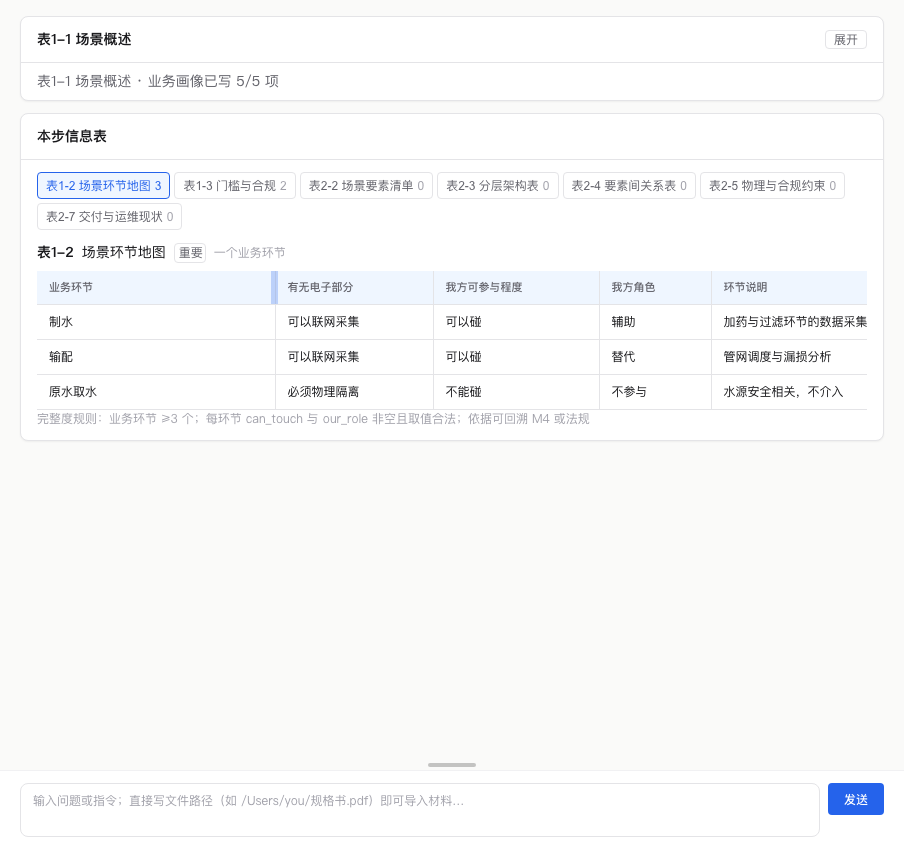
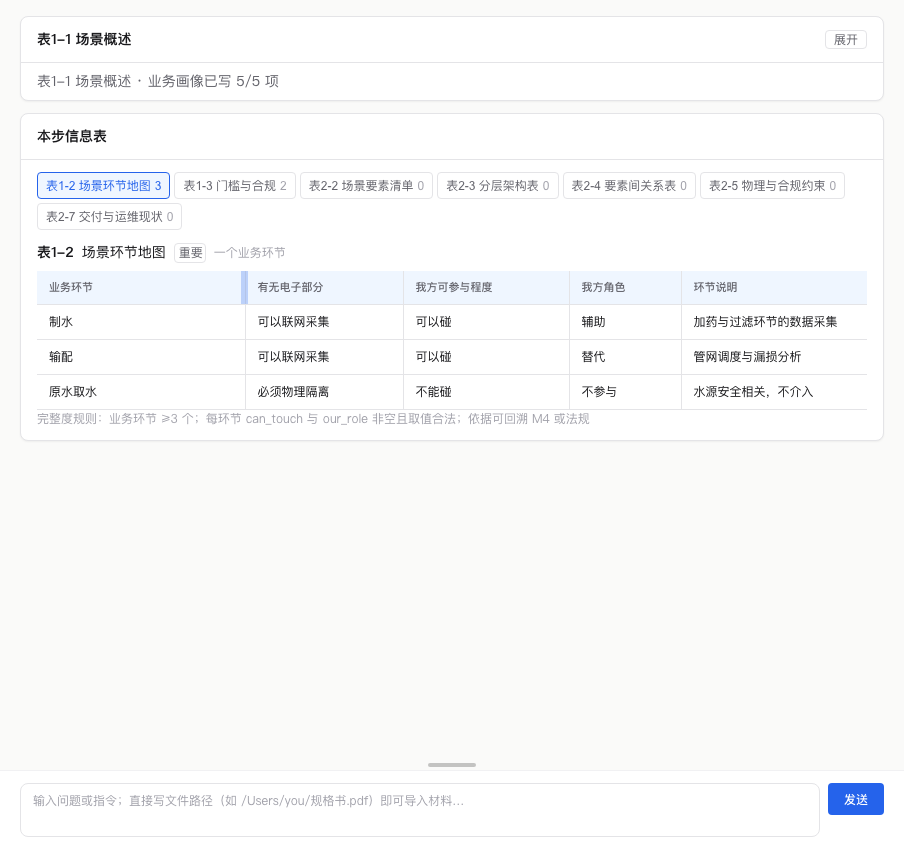
fix(web): 去掉表格隐形填充列，表宽恒等于中栏宽（不再出现横向滚动）
用户验收反馈两条：① 明明只有 2 列有内容，表格却有 3 列；
② 表格的最大宽度是固定的，跟着中栏宽调整即可，不要横向滚动条。

根因是上一版（c49815a）的设计错误：为了让「拖宽一列不压缩别的列」，
我加了一个隐形的填充列承接余量，并按「表宽 = max(中栏宽, 列宽之和)」
允许超出中栏 —— 于是表里凭空多了一个空格子（DOM 里真有第三个 th/td，
把某列拖窄时它还会显形），拖宽到超出中栏就冒出横向滚动条。

改为：
- 删掉填充列，表里只有业务列（表1-1 恰为 2 列 / 每行 2 个格子）。
- 末列不设固定宽，由它承接余量：表宽恒等于中栏宽（width:100% +
  table-layout:fixed），.tw 的横滚降为极端窄容器兜底。
- 拖宽被拖列时末列相应变窄，让到 64px 可读下限即停（拖拽夹取），
  因此拖拽永远拖不出横向滚动条。
- 拖宽手柄只装在「列与列之间」：末列右缘就是表右缘，没有边界可移。
- 中栏被拖窄时，手动列宽按比例收，同样不出横滚。

实测：表1-1 拖「项」分割线 +80 → 543/319 变 623/239，表宽 862 不变、
scrollWidth == clientWidth；拖到极限 798/64 仍不出横滚；第 2 步 5 列表
拖第 1 条线 +70 → 208/158/166/112/186（只有第 1 列变、中间三列不动、
末列 -90）。

验证：pnpm verify:m5 全部通过（790 单测 / 演示 E2E 36 passed / 单端口冒烟 /
流程 UI 真机 / 真实 LLM 链路 / 口径守卫，新增两条守卫：不得再有隐形填充列、
手柄只装在列间）；文档 04 v1.15、变更表 #71、开发计划 M15 修正。

diff --git a/apps/web/src/components/SceneTable.tsx b/apps/web/src/components/SceneTable.tsx
@@ -179,6 +179,11 @@ export function SceneTable<T extends Record<string, unknown>>({
   /** 选中行（右栏详情联动高亮） */
   const [selectedIdx, setSelectedIdx] = useState<number | null>(null);
   const tableRef = useRef<HTMLTableElement>(null);
+  /** RO 回调里读最新列定义/列宽（effect 不随它们重建，避免反复解绑观察器） */
+  const columnsRef = useRef(columns);
+  const widthsRef = useRef(widths);
+  columnsRef.current = columns;
+  widthsRef.current = widths;
   const wrapRef = useRef<HTMLDivElement>(null);
   /** 各列自然宽缓存 */
   const naturalsRef = useRef<NaturalWidth[]>([]);
@@ -189,6 +194,8 @@ export function SceneTable<T extends Record<string, unknown>>({
     key: string;
     startX: number;
     startW: number;
+    /** 被拖列允许的最大宽（末列让到可读下限为止） */
+    maxW: number;
     base: Widths;
   } | null>(null);
 
@@ -237,7 +244,25 @@ export function SceneTable<T extends Record<string, unknown>>({
     if (!wrap) return;
     const sync = () => {
       setContainerW(wrap.clientWidth);
-      if (!manualRef.current) fitToContainer();
+      if (!manualRef.current) {
+        fitToContainer();
+        return;
+      }
+      /* 手动列宽遇到中栏变窄：末列最多让到可读下限，再不够就按比例收（绝不出横滚） */
+      const cols = columnsRef.current;
+      const last = cols[cols.length - 1]?.key;
+      const sumOthers = cols
+        .filter((c) => c.key !== last)
+        .reduce((a, c) => a + (widthsRef.current?.[c.key] ?? 0), 0);
+      const room = wrap.clientWidth - sumOthers;
+      if (room >= MIN_COL_WIDTH) return;
+      const scale = Math.max(0.1, (wrap.clientWidth - MIN_COL_WIDTH) / Math.max(1, sumOthers));
+      const next: Widths = {};
+      for (const c of cols) {
+        const w = widthsRef.current?.[c.key];
+        if (typeof w === "number") next[c.key] = Math.max(FIT_MIN_COL_WIDTH, Math.round(w * scale));
+      }
+      setWidths(next);
     };
     sync();
     const ro = new ResizeObserver(sync);
@@ -289,14 +314,20 @@ export function SceneTable<T extends Record<string, unknown>>({
       e.preventDefault();
       const base = { ...(widths ?? {}) };
       const startW = base[key] ?? FALLBACK_COL_WIDTH;
-      dragRef.current = { key, startX: e.clientX, startW, base };
+      /* 末列不设固定宽（承接余量）：它能让出的最多是"降到可读下限"那点，
+         所以被拖列的加宽上限 = 自身宽 + 末列余量。表宽因此恒等于中栏宽，不出横滚。 */
+      const lastTh = tableRef.current?.querySelector("th:last-child");
+      const lastW = lastTh ? lastTh.getBoundingClientRect().width : 0;
+      const maxW = startW + Math.max(0, lastW - MIN_COL_WIDTH);
+      dragRef.current = { key, startX: e.clientX, startW, maxW, base };
       setIsResizing(true);
       manualRef.current = true;
 
       const onMove = (ev: MouseEvent) => {
         const drag = dragRef.current;
         if (!drag) return;
-        const next = Math.max(MIN_COL_WIDTH, Math.round(drag.startW + (ev.clientX - drag.startX)));
+        const raw = Math.round(drag.startW + (ev.clientX - drag.startX));
+        const next = Math.min(Math.max(raw, MIN_COL_WIDTH), Math.round(drag.maxW));
         setWidths({ ...drag.base, [drag.key]: next });
       };
       const onUp = () => {
@@ -323,15 +354,13 @@ export function SceneTable<T extends Record<string, unknown>>({
     }
   }, [storageKey]);
 
-  const sum = columns.reduce((a, c) => a + (widths?.[c.key] ?? 0), 0);
-  /** 表宽 = 中栏内容宽与各列宽之和的较大者（超出则横向滚动） */
-  const tableW = Math.max(sum, containerW);
-  const fillW = Math.max(0, tableW - sum);
+  /** 末列宽不写死：它承接各列宽之和与中栏宽之间的余量（表宽恒等于中栏宽，不出横向滚动） */
+  const lastKey = columns.length > 0 ? columns[columns.length - 1]!.key : undefined;
   const placeholderOf = (col: ColumnDef<T>, row: T): string =>
     typeof col.placeholder === "function" ? col.placeholder(row) : (col.placeholder ?? "");
-  const resizeHandle = (col: ColumnDef<T>, isLast: boolean): React.ReactElement => (
+  const resizeHandle = (col: ColumnDef<T>): React.ReactElement => (
     <span
-      className={`th-resize${isLast ? " th-resize--last" : ""}`}
+      className="th-resize"
       title="拖拽调整这一列的宽度（只动这一列）；双击恢复按内容自适应"
       role="separator"
       aria-orientation="vertical"
@@ -346,18 +375,21 @@ export function SceneTable<T extends Record<string, unknown>>({
       <table
         ref={tableRef}
         className={measuring ? "measure" : tableClassName}
-        style={measuring ? undefined : { tableLayout: "fixed", width: `${tableW}px` }}
+        style={measuring ? undefined : { tableLayout: "fixed", width: "100%" }}
       >
         {!measuring && (
           <colgroup>
             {columns.map((col) => (
               <col
                 key={col.key}
-                style={{ width: `${widths?.[col.key] ?? FALLBACK_COL_WIDTH}px` }}
+                /* 末列不给宽：余量归它，表宽才恒等于中栏宽 */
+                style={
+                  col.key === lastKey && columns.length > 1
+                    ? undefined
+                    : { width: `${widths?.[col.key] ?? FALLBACK_COL_WIDTH}px` }
+                }
               />
             ))}
-            {/* 填充列：承接「列宽之和 < 中栏宽」的那点余量，保证整表仍铺满中栏 */}
-            <col style={{ width: `${fillW}px` }} />
           </colgroup>
         )}
         <thead>
@@ -365,11 +397,10 @@ export function SceneTable<T extends Record<string, unknown>>({
             {columns.map((col, ci) => (
               <th key={col.key} data-col-key={col.key}>
                 {col.label}
-                {/* 末列的柄不能探出表右缘（探出去会凭空多出几像素横向滚动） */}
-                {resizeHandle(col, ci === columns.length - 1)}
+                {/* 只在"列与列之间"装手柄：末列右缘就是表右缘，无边界可移 */}
+                {ci < columns.length - 1 ? resizeHandle(col) : null}
               </th>
             ))}
-            <th className="col-fill" aria-hidden="true" />
           </tr>
         </thead>
         <tbody>
@@ -454,7 +485,6 @@ export function SceneTable<T extends Record<string, unknown>>({
                   </td>
                 );
               })}
-              <td className="col-fill" />
             </tr>
           ))}
         </tbody>

diff --git a/e2e/ingest-upload.spec.ts b/e2e/ingest-upload.spec.ts
@@ -117,7 +117,7 @@ test.describe("上传入库（联真）", () => {
     await page.getByRole("button", { name: "产品资料库" }).click();
     await page.locator(".stab", { hasText: "M1" }).click();
     /* 降维：7 列含「溯源」徽标列，来源四列与曾用名不再占列（等表格异步加载完） */
-    await expect(page.locator("table th:not(.col-fill)")).toHaveCount(7);
+    await expect(page.locator("table th")).toHaveCount(7);
     const ths = await page.locator("table th").allTextContents();
     expect(ths).toContain("溯源");
     expect(ths).not.toContain("来源标注");
@@ -231,7 +231,7 @@ test("场景定义对话（联真）：新建只输名称 → 自动开「场景
   const anchor = page.locator(".ws .schema-table--anchor").first();
   await expect(anchor).toBeVisible({ timeout: 20_000 });
   // 表1-1 只有「项 / 内容」两列：无状态列、无 ✓、无待确认
-  await expect(anchor.locator("th:not(.col-fill)")).toHaveCount(2);
+  await expect(anchor.locator("th")).toHaveCount(2);
   await expect(anchor.locator(".state-badge")).toHaveCount(0);
   // 智能体确实把业务画像写出来了（这正是"只输名称"路径要验证的东西）
   const written = await anchor.locator(".cell-input").evaluateAll((els) =>

diff --git a/apps/web/src/styles/app.css b/apps/web/src/styles/app.css
@@ -294,9 +294,13 @@ body {
 }
 
 /* ── 表格 ── */
-/* 列宽之和超过中栏宽时在这里横向滚动（表宽跟着中栏走，不压缩列） */
+/* 表宽恒等于中栏宽（末列承接余量），横滚只是极端窄容器下的兜底 */
 .tw {
   overflow-x: auto;
+}
+
+.tw > table {
+  box-sizing: border-box;
 }
 
 /* 单元格内容换行 + 行高随内容长（用户定调 2026-09-26）
@@ -307,11 +311,6 @@ body {
   overflow-wrap: anywhere;
 }
 
-/* 拖拽调宽后用于承接余量的填充列：不画线、不可选、不参与交互 */
-.tw .col-fill {
-  border-right: none;
-  padding: 0;
-}
 
 table {
   width: 100%;
@@ -372,11 +371,6 @@ td:last-child {
   cursor: col-resize;
   user-select: none;
   touch-action: none;
-}
-
-/* 末列（右边没有下一列可分割）：热区往里收，不探出表缘 */
-.th-resize--last {
-  right: 0;
 }
 
 .th-resize:hover {

diff --git a/docs/项目变更表.md b/docs/项目变更表.md
@@ -74,3 +74,4 @@
 | 68 | 2026-09-26 | **进度卡：不要圆点，保留关键词（承接 #67 的用户复核）** | **用户原话**：「**不要只有原点　保留比如场景定义、能力匹配这些关键词**」→「**圆点可以不用**」。**我上一轮的偏差**：把「去掉序号」做成了「去掉数字、保留状态圆点」，并在中栏调窄时**连标题一起隐藏**、只留圆点——方向反了：用户要的是**一行里看得见每个步骤是什么**，圆点只是标记、不是内容。**改动**：① 契约 `FlowStep` 新增 **`short`（简化标题 / 关键词）**：场景定义 · 认识场景 · 理解商业 · 能力匹配 · 方案实现 · 价值验证 · 总结沉淀 · 交付物（完整标题仍在 `title` 与 `aria-label`，悬停与读屏都能拿到全称）；② 进度卡**只渲染关键词**，**圆点与 ✓ 整个删掉**（状态靠文字颜色 + 当前步高亮底/描边表达）；③ **关键词任何宽度都不隐藏**：中栏偏窄（容器 ≤820px）先收紧间距与内边距，实在放不下时节点条横向可滚（隐藏滚动条），「下一步」按钮移出 tablist 钉在最右、不随节点滚动（顺带修掉一处 ARIA 瑕疵：tablist 里原本混了一个普通按钮）；④ 实测：中栏 704 / 724 / 768px 三档 **8 个关键词全字显示、无截断、无滚动、按钮可见**，行高恒 39px。回归：782 单测 / 34 演示 E2E / 真机流程 UI 验收（新增 4d「保留关键词」断言）/ 真实链路走查全绿 |
 | 69 | 2026-09-26 | **右栏只讲当前步骤，不整理整个过程（用户定调）** | **用户原话**：「**右栏的补充说明和阶段总结只针对当前阶段做说明和总结，不要整理整个过程**」。**原状问题**（我拉真实场景的阶段总结核实过）：① 每份总结开头都把**用户诉求全文**再抄一遍（「> 用户诉求（第一输入，唯一基准）：场景名称…想搞清楚什么…」）——那是整个项目的输入，不属于某一步；② 结尾「**六、上下游衔接**」把整个流程的阶段依赖列一遍（「阶段 7 · 最终交付物 会引用：表4-1…」「上游依据：M1、M2、M3、M4、表1-1、表1-2、表3-4、表3-8」）——这是方法论内部的表关系，不是用户要读的东西；③ 阶段 1 横跨第 1、2 两（表1-1 归第 1 步），于是**第 2 步的右栏还在算、还在讲第 1 步的表1-1**（实测第 2 步页头「信息完整度 1/8 张表（13%）」，而中栏只有 7 张表）。**改动**：① 总结新增 `scope: step`（右栏默认）——表集限本步、抬头写「第 n 步 · 标题」与「本步要获得的信息是」，**删除用户诉求全文与上下游衔接**（阶段级六段只留给交付物装配，导出内容不变）；② 完整度 / 面板数据 / 总结三端点都支持 `?step=N`，右栏一律带上当前步（第 2 步实测变为「0/7 张表」）；③ `checkStageCompleteness` 与 `buildStageSummary` 新增 `tableCodes`，SSE 里的完整度也按本次分析的表集算；④ 补充说明本就只显示中栏当前表，空态文案改为「本步当前表」；演示态（demo mock）同步同口径。新增 3 个 API 单测 + 5 个领域单测 + 2 条真机断言（含「右栏只讲本步：无诉求全文 / 无上下游衔接 / 不提别的步骤的表」） |
 | 70 | 2026-09-26 | **中栏表格：逐列独立拖宽 + 内容换行 + 行高随内容（用户定调，取代 #2/#19 的列宽机制）** | **用户原话**：「① 当前表格的宽度设计是对的——跟着中栏的宽度变化，很好；② 除了宽度以外，每一列都要支持鼠标选中列与列的分隔线左右移动，**不影响其他列的宽度**；③ 列中的内容支持换行显示，行高支持根据内容调整」。**原状问题**：① 列宽模型是**百分比**，拖分割线的机制写作「两侧列**交换**宽度、总宽不变」（#19 的实现）——拖第 1 列的线，第 2 列会被一起挤窄，正是用户不要的；② 可编辑格的样式是 `nowrap` + `text-overflow: ellipsis`——长内容被截断成一行（旧口径「压住行高，全文悬浮看」）；③ 表1-1「内容」用单行 `<input class=cell-input>`——换行无从显示、行高恒为一行。**改动**：① 列宽改为**像素 + 填充列**：拖某列只改这一列（单键更新），余量由不可见填充列承接，列宽之和超出中栏时横向滚动（表宽 = max(中栏内容宽, 列宽之和)），双击分割线回到按内容自适应；另留 1px 余量、末列热区不探出表缘，避免 border-collapse 造成凭空横滚；② 可编辑格与文本格改 `pre-wrap` + `overflow-wrap: anywhere`，行高随内容长；③ 表1-1「内容」换成自适应高度 textarea（多行编辑器；列被拖窄时 ResizeObserver 重算高度），表1-1 改由 SceneTable 承载（顺带获得逐列拖宽）；固定行无落库数据时渲染灰字提示而不是存不下去的控件；④ 列宽留存键升到 `scene.colwidths.v3`（px；旧 v2 百分比记录不再读取）。新增 2 条 E2E（拖一条分割线只改这一列 / 长内容换行且行高随内容长）+ verify-m5 口径守卫；演示 E2E 36 passed | `apps/web/src/components/SceneTable.tsx` / `SchemaTable.tsx` / `styles/app.css` / `e2e/` / `04-业务过程重定义.md` / `01-产品定义.md` | 用户要求 | 已生效 |
+| 71 | 2026-09-26 | **中栏表格修正：去掉隐形填充列 + 表宽恒等于中栏宽（取消横向滚动）** | **用户验收反馈**：「① 为什么明明只有 2 列有内容，表格却有 3 列？② 表格的最大宽度是固定的，只是可以根据中栏的宽度调整而已，不用横向移动的条」。**根因（#70 的设计错误）**：为了让「拖宽一列不压缩别的列」，我加了一个**隐形的填充列**承接余量，并按「表宽 = max(中栏宽, 列宽之和)」允许超出中栏——于是① 表里凭空多一个空格子（DOM 里真有第三个 th/td，把某列拖窄时它会显形）；② 拖宽到超出中栏就冒出横向滚动条。**修正**：① 删掉填充列，表里只有业务列；② **末列不设固定宽、由它承接余量**，表宽恒等于中栏宽（`width: 100%` + `table-layout: fixed`，`.tw` 横滚降为极端窄容器兜底），拖宽被拖列时末列相应变窄，让到 64px 可读下限即停（拖拽夹取）——**永不出现横向滚动**；③ 拖宽手柄只装在列与列之间（末列右缘就是表右缘）；④ 中栏被拖窄时手动列宽按比例收，同样不出横滚。E2E 改写为「拖列间分割线只改这一列，末列承接余量，表宽不变、无横向滚动」（含拖到极限与双击复位断言）；verify-m5 增两条守卫（不得再有隐形填充列 / 手柄只装在列间）| `apps/web/src/components/SceneTable.tsx` / `styles/app.css` / `e2e/interaction.spec.ts` / `04-业务过程重定义.md` | 用户验收反馈 | 已生效 |
